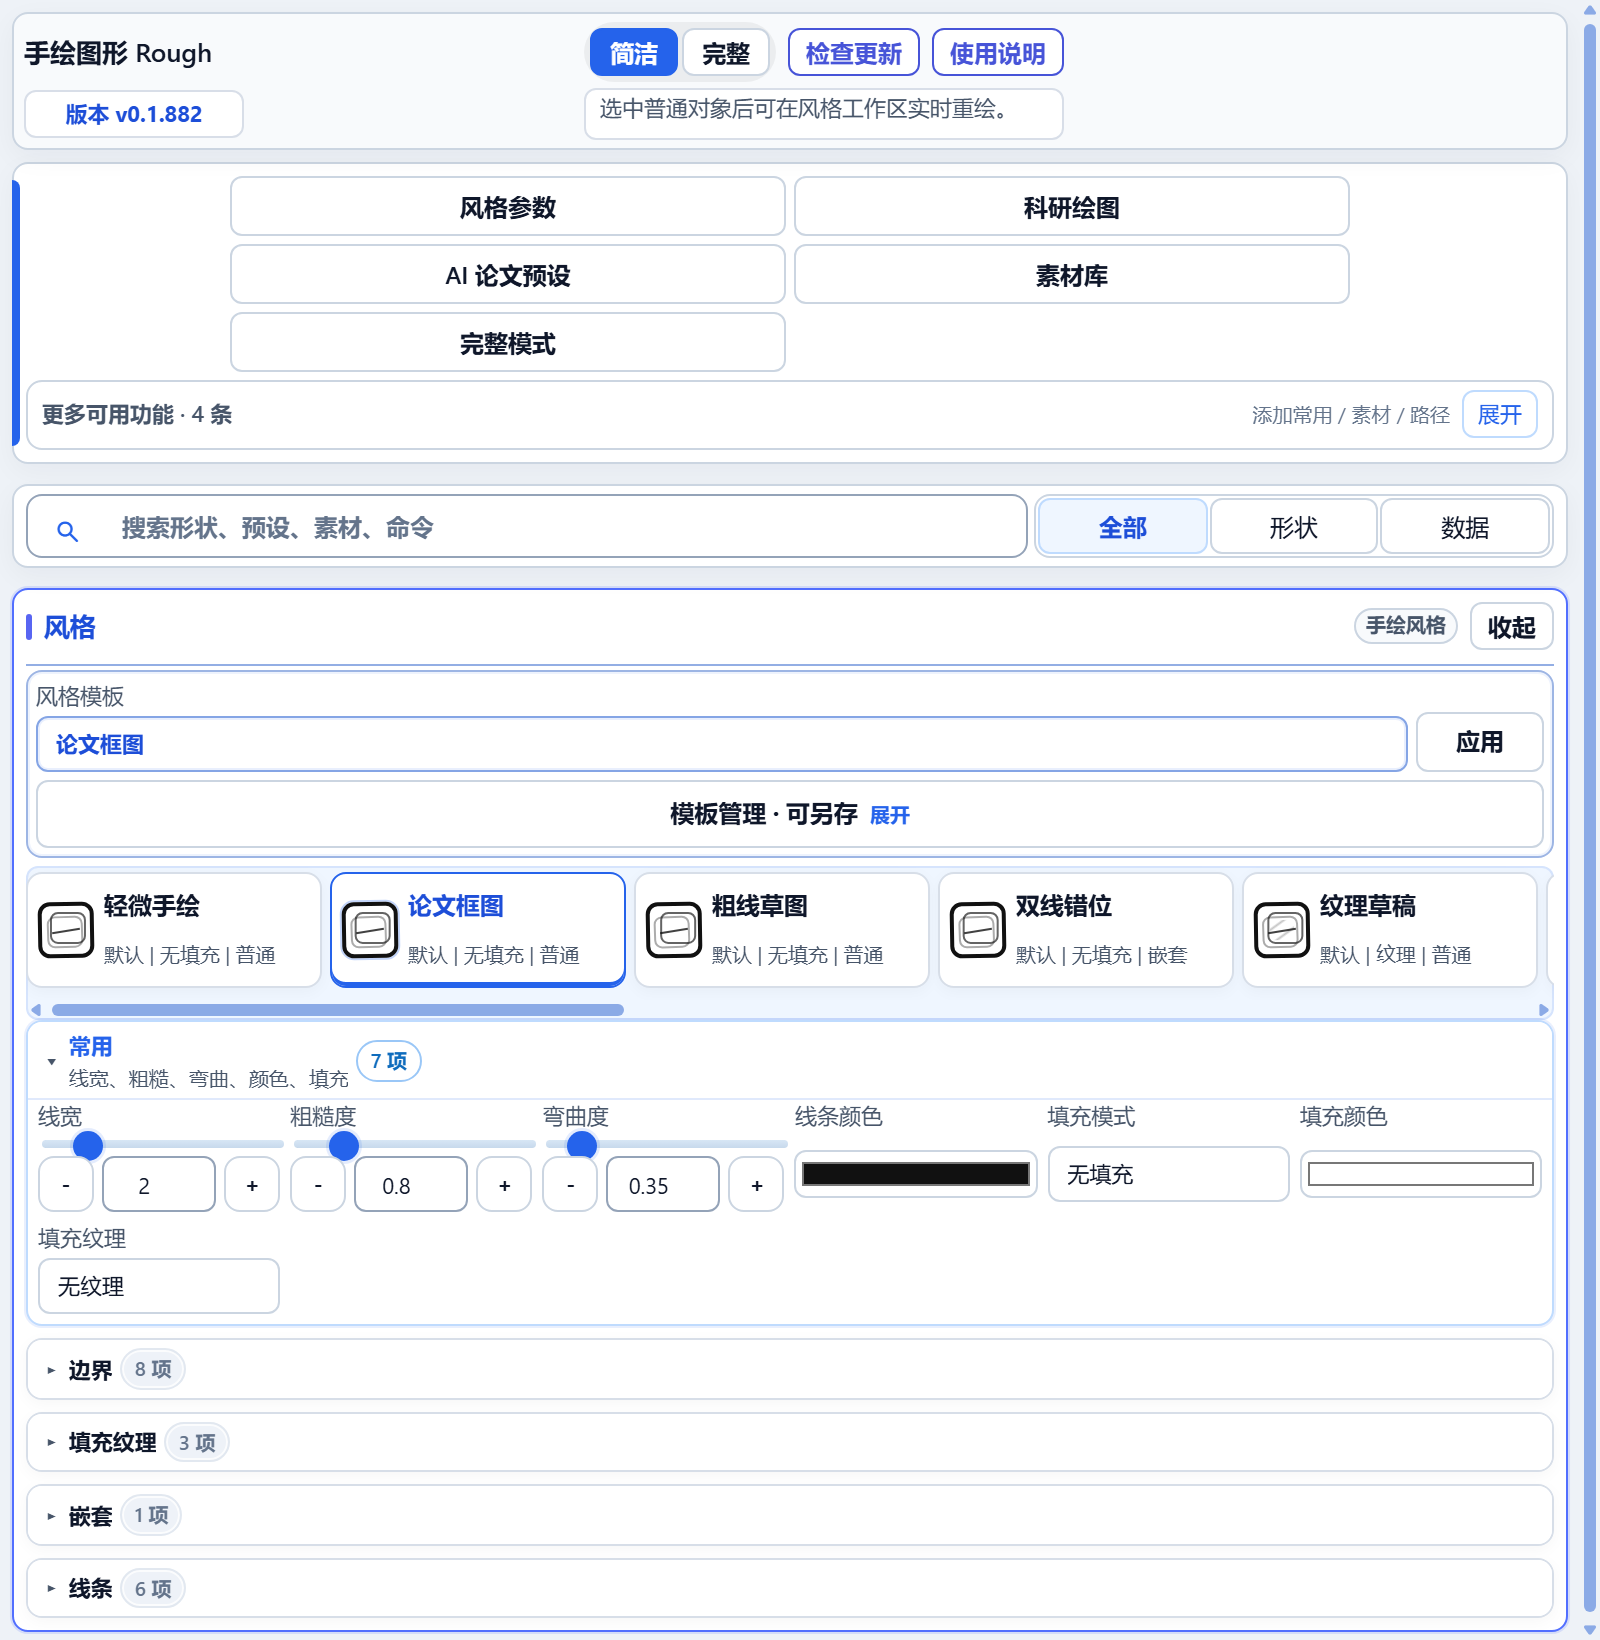
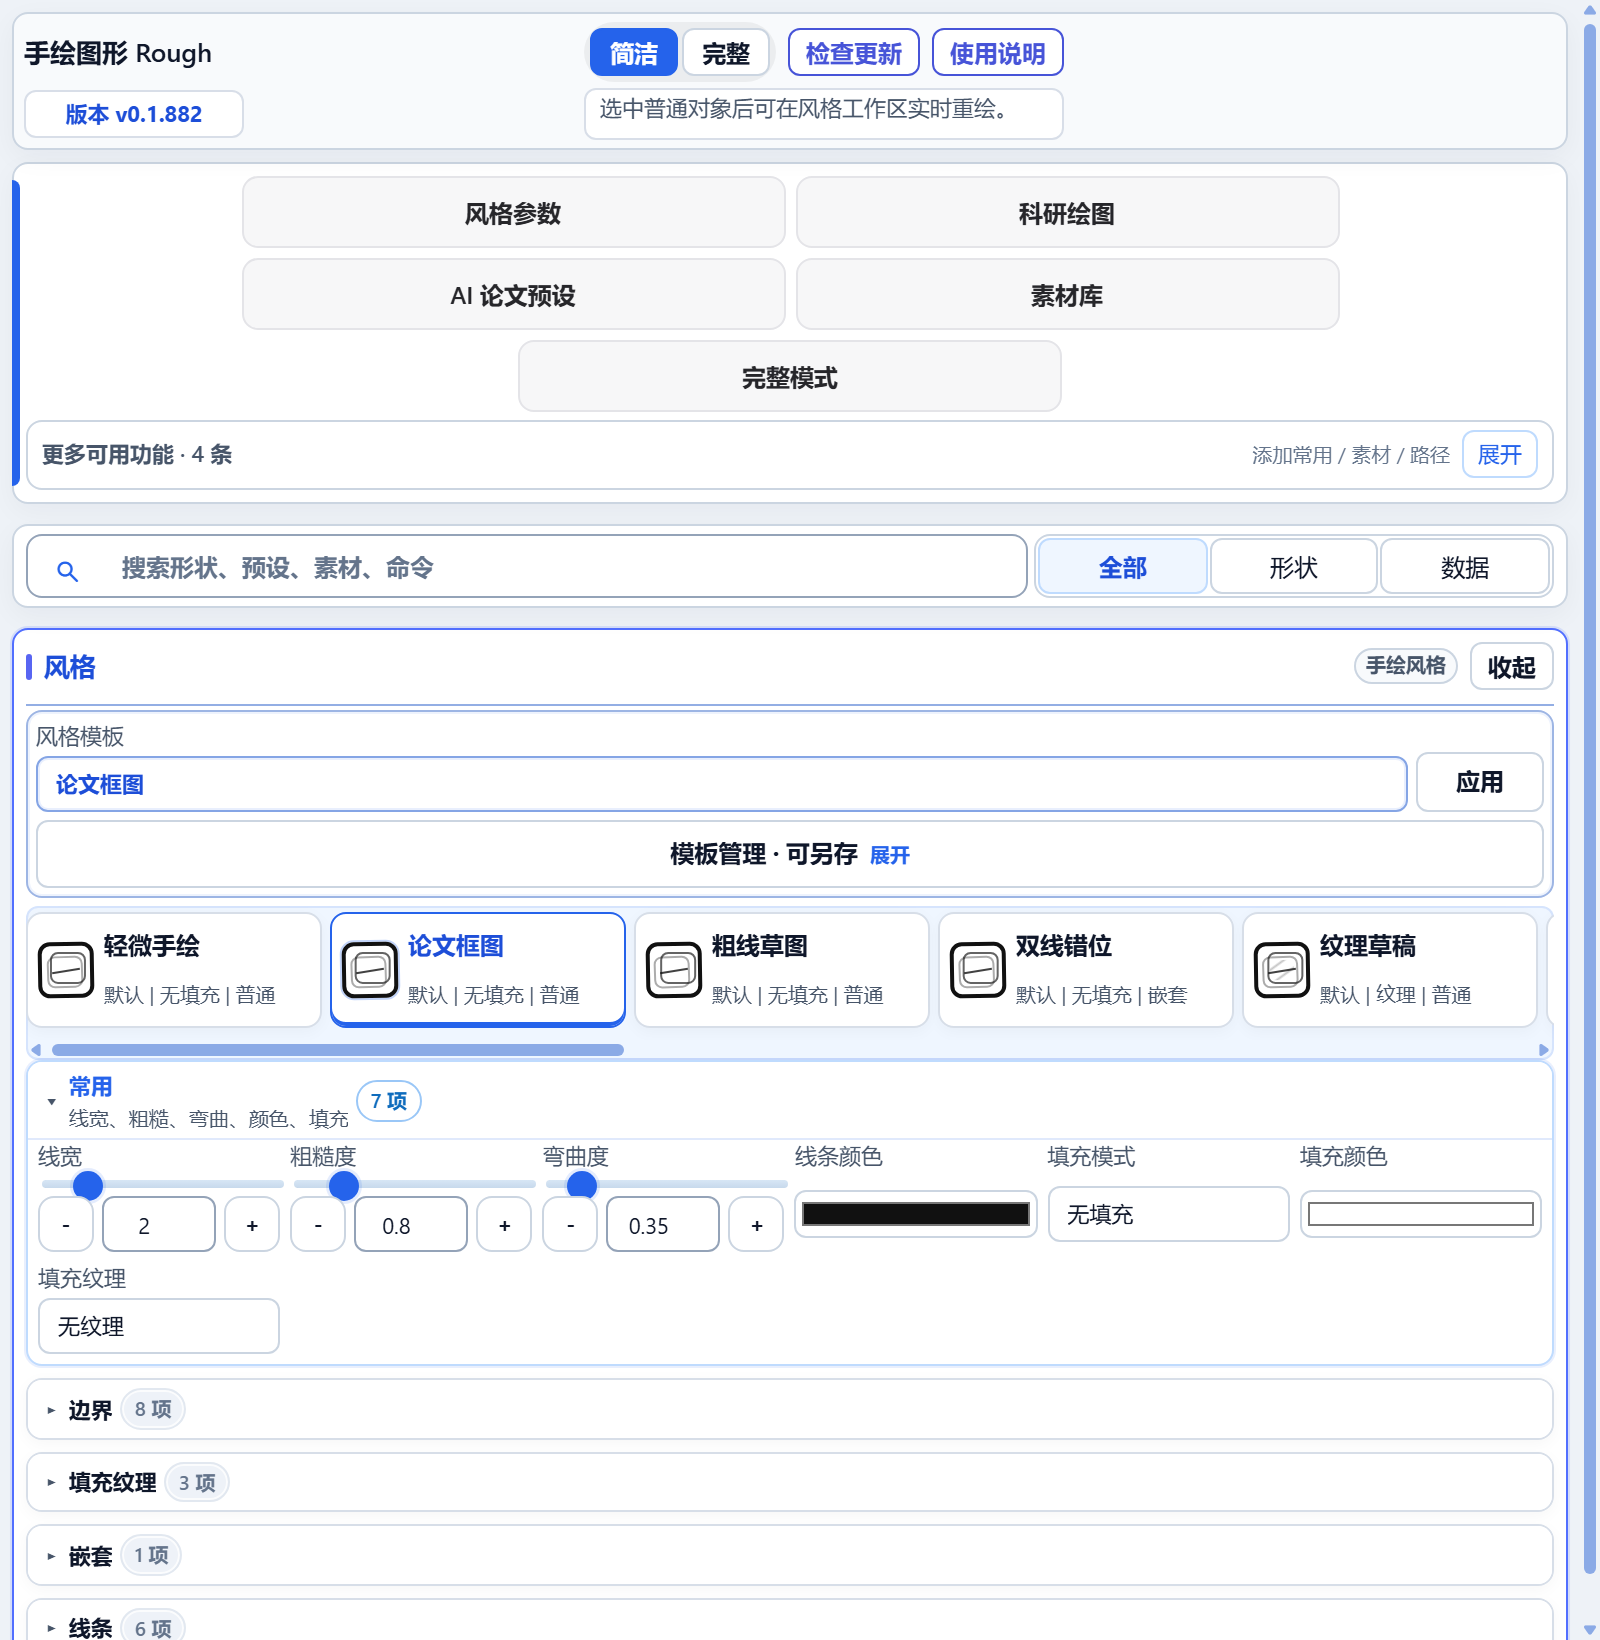
ui: center simple action grid

Changed region(s): [[0.0, 0.0933, 1.0, 1.0]]

diff --git a/src/RoughPptAddin/ui/styles.css b/src/RoughPptAddin/ui/styles.css
@@ -10342,12 +10342,11 @@ body.ux-simple .topbar .status:not(.expanded) {
   margin-inline: auto;
 }
 
-body.ux-simple[data-selection-kind="none"] .workflow-actions,
-body.ux-simple[data-selection-kind="feature"] .workflow-actions,
-body.ux-simple[data-selection-kind="none"] .simple-mode-actions,
-body.ux-simple[data-selection-kind="feature"] .simple-mode-actions {
+body.ux-simple .workflow-actions,
+body.ux-simple .simple-mode-actions {
   display: grid !important;
-  grid-template-columns: repeat(2, minmax(0, 1fr)) !important;
+  grid-template-columns: repeat(2, minmax(0, 272px)) !important;
+  justify-content: center !important;
   gap: 5px !important;
   align-items: stretch;
   max-width: 560px !important;
@@ -10357,21 +10356,25 @@ body.ux-simple .workflow-actions-label {
   display: none !important;
 }
 
-body.ux-simple[data-selection-kind="none"] .workflow-actions > button,
-body.ux-simple[data-selection-kind="feature"] .workflow-actions > button,
-body.ux-simple[data-selection-kind="none"] .simple-mode-actions > button,
-body.ux-simple[data-selection-kind="feature"] .simple-mode-actions > button {
+body.ux-simple .workflow-actions > button,
+body.ux-simple .simple-mode-actions > button {
   width: 100%;
   min-width: 0;
   min-height: 36px !important;
   padding: 7px 10px !important;
 }
 
+body.ux-simple[data-selection-kind="normal"] .workflow-actions > #simpleModeFullSwitch,
+body.ux-simple[data-selection-kind="rough"] .workflow-actions > #simpleModeFullSwitch,
+body.ux-simple[data-selection-kind="feature"] .workflow-actions > #simpleModeFullSwitch {
+  grid-column: 1 / -1;
+  justify-self: center;
+  width: min(100%, 272px);
+}
+
 /* B612: primary paths use one compact tile grammar across narrow and wide panes. */
-body.ux-simple[data-selection-kind="none"] .workflow-actions > button:not(.primary-action),
-body.ux-simple[data-selection-kind="feature"] .workflow-actions > button:not(.primary-action),
-body.ux-simple[data-selection-kind="none"] .simple-mode-actions > button:not(.primary-action),
-body.ux-simple[data-selection-kind="feature"] .simple-mode-actions > button:not(.primary-action) {
+body.ux-simple .workflow-actions > button:not(.primary-action),
+body.ux-simple .simple-mode-actions > button:not(.primary-action) {
   border-color: #e4e4e8 !important;
   border-radius: 8px !important;
   background: #f7f7f8 !important;
@@ -10382,24 +10385,18 @@ body.ux-simple[data-selection-kind="feature"] .simple-mode-actions > button:not(
   white-space: nowrap !important;
 }
 
-body.ux-simple[data-selection-kind="none"] .workflow-actions > button:not(.primary-action):hover,
-body.ux-simple[data-selection-kind="feature"] .workflow-actions > button:not(.primary-action):hover,
-body.ux-simple[data-selection-kind="none"] .simple-mode-actions > button:not(.primary-action):hover,
-body.ux-simple[data-selection-kind="feature"] .simple-mode-actions > button:not(.primary-action):hover,
-body.ux-simple[data-selection-kind="none"] .workflow-actions > button:not(.primary-action):focus-visible,
-body.ux-simple[data-selection-kind="feature"] .workflow-actions > button:not(.primary-action):focus-visible,
-body.ux-simple[data-selection-kind="none"] .simple-mode-actions > button:not(.primary-action):focus-visible,
-body.ux-simple[data-selection-kind="feature"] .simple-mode-actions > button:not(.primary-action):focus-visible {
+body.ux-simple .workflow-actions > button:not(.primary-action):hover,
+body.ux-simple .simple-mode-actions > button:not(.primary-action):hover,
+body.ux-simple .workflow-actions > button:not(.primary-action):focus-visible,
+body.ux-simple .simple-mode-actions > button:not(.primary-action):focus-visible {
   border-color: var(--accent) !important;
   background: #ffffff !important;
   color: var(--accent-strong) !important;
   box-shadow: var(--focus-ring) !important;
 }
 
-body.ux-simple[data-selection-kind="none"] .workflow-actions > button.primary-action,
-body.ux-simple[data-selection-kind="feature"] .workflow-actions > button.primary-action,
-body.ux-simple[data-selection-kind="none"] .simple-mode-actions > button.primary-action,
-body.ux-simple[data-selection-kind="feature"] .simple-mode-actions > button.primary-action {
+body.ux-simple .workflow-actions > button.primary-action,
+body.ux-simple .simple-mode-actions > button.primary-action {
   border-radius: 8px !important;
   box-shadow: none !important;
   font-size: 12px !important;

diff --git a/docs/target-mode-plan.md b/docs/target-mode-plan.md
@@ -99,6 +99,8 @@
 24. B626（已完成）：用包含 B624/B625 的源码生成 0.1.880 三格式安装包，并通过 MSI 无感安装；安装载荷与发布包一致。
 25. B627（已完成）：科研绘图宽窗改为三栏独立滚动，预览按可用宽高等比居中，消除整页滚动和长片空白。
 26. B628（已完成）：新增帮助截图重建脚本和 npm 入口，重建任务窗格、风格、特征块和科研绘图帮助截图，使离线说明与当前 UI 一致。
+27. B629（已完成）：本地构建与发布包的 dirty 判定排除生成型 build-info，避免仅构建元数据变化时把正式包误标为脏构建。
+28. B630（已完成）：简洁模式快捷工作台统一为居中的 272px 双列轨道；普通、手绘和特征块上下文中的完整模式按钮居中收尾。
 
 ## 近期锚点
 
@@ -133,6 +135,8 @@
 - B627 验证锚点：1180px 默认窗口整页额外滚动为 0；预览图 498×345 在 528×661 容器内居中。UI 窗口布局、科研绘图运行时和键盘导航合同通过，截图复核后已回收。
 - B628 观察基线：四张帮助截图仍显示旧提交、旧主路径布局和旧科研绘图长空白；README、USER_GUIDE 与内置帮助引用它们，需要随当前界面更新。
 - B628 验证锚点：`npm test` 通过；四张帮助截图已按 2x 缩放重建并人工复核。总览、风格和特征截图显示 0.1.882 当前布局，科研绘图截图显示三栏独立滚动与居中 SVG 预览。
+- B629 验证锚点：PowerShell 脚本语法、安装器版本和部署合同通过；build-info 自身变化不再进入 dirty 状态。
+- B630 验证锚点：UI 资产、UI 合同、简洁布局和任务窗格交互通过；风格上下文截图确认完整模式按钮居中，无选区四按钮双列密度合同保持通过。
 
 ## 关键里程碑
 
